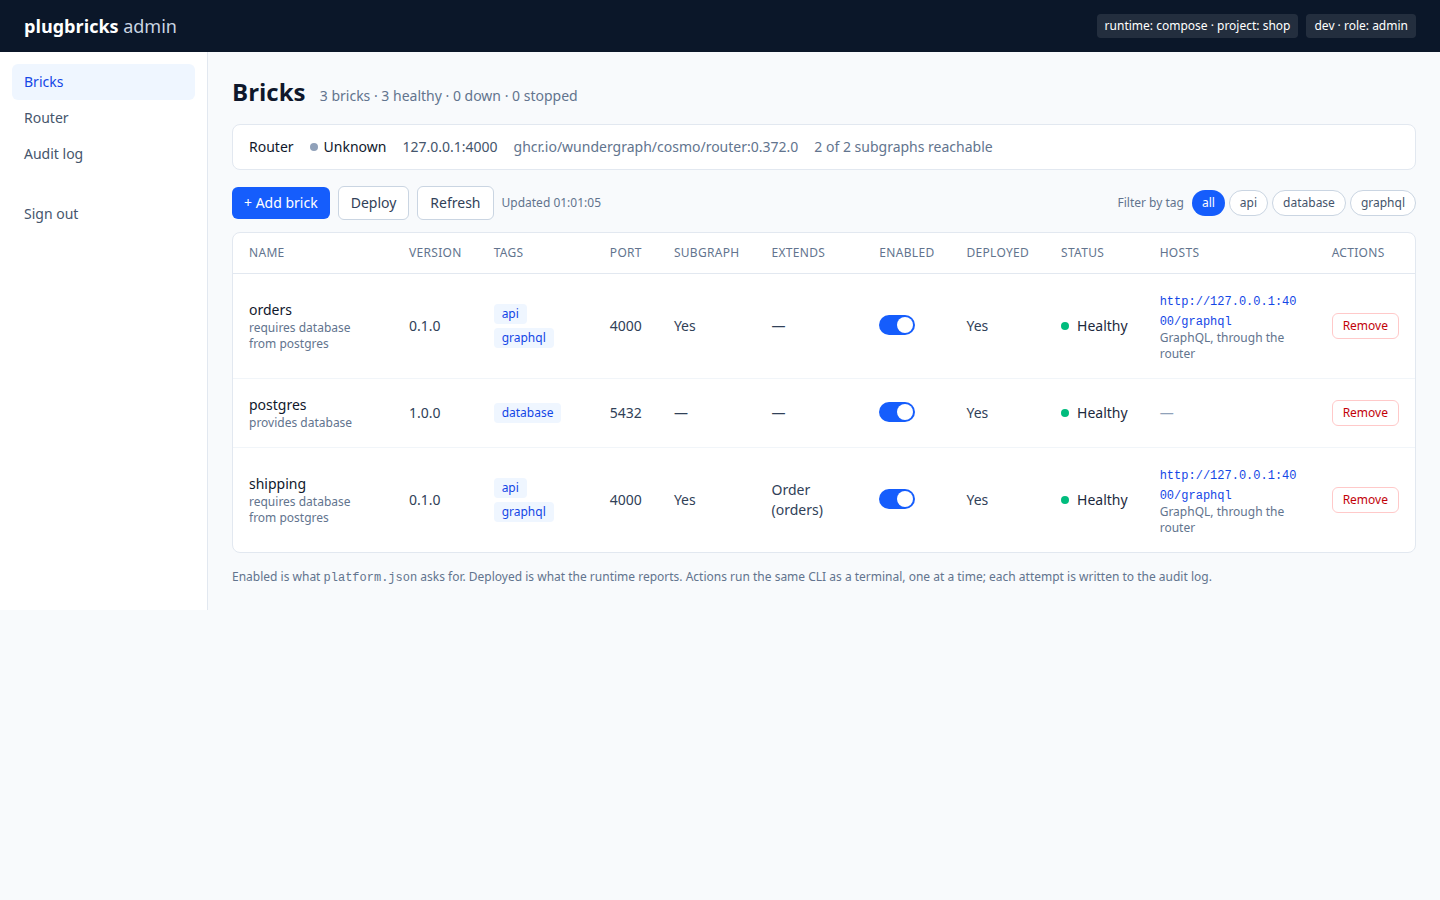
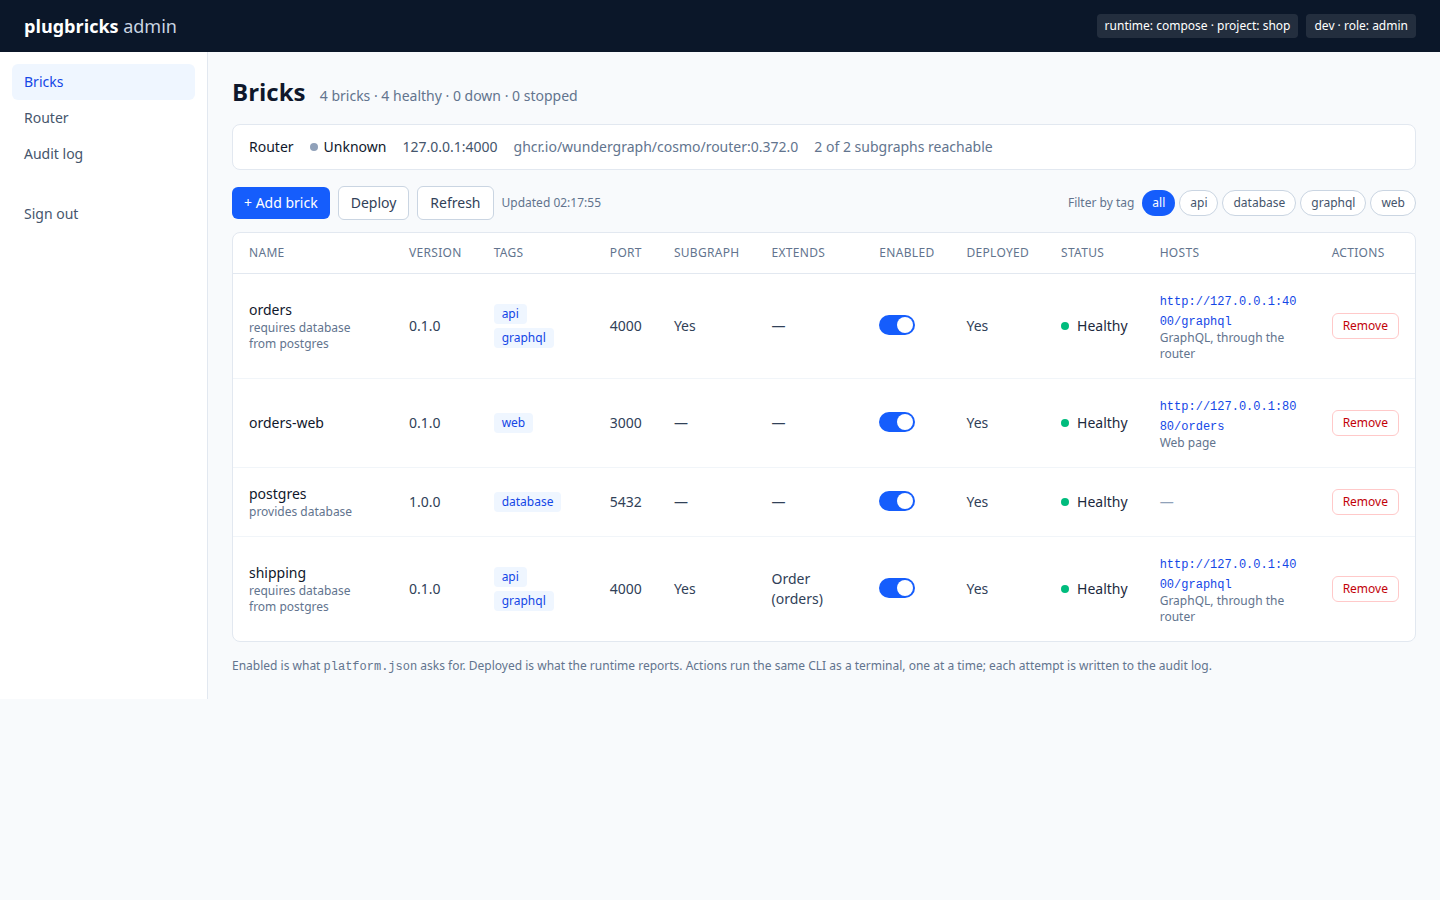
docs: web bricks in D17, the README and the architecture, with screenshots

diff --git a/README.md b/README.md
@@ -124,12 +124,12 @@ viewer sees the same pages and cannot change anything. The Router page shows the
 size, source, composition and composed schema. The published package carries the built UI
 (`prepack` copies it to `dist/admin/ui`), and the `dist` test checks it.
 
-The screenshots below were taken on a real platform (`postgres`, `orders`, `shipping` and the router on
-Docker Compose, admin in `--dev`). On Compose the router has no healthcheck (its image has no shell,
+The screenshots below were taken on a real platform (`postgres`, `orders`, `shipping`, `orders-web` and
+the router on Docker Compose, admin in `--dev`). On Compose the router has no healthcheck (its image has no shell,
 D9), so its state is shown as `Unknown` while it runs.
 
 **Bricks**: what `platform.json` asks for next to what the runtime reports; a subgraph brick is reached
-through the router.
+through the router, a web brick's page on its own loopback port.
 
 ![The Bricks page: three healthy bricks, their tags, ports, subgraphs and router endpoint](docs/screenshots/admin-bricks.png)
 
@@ -153,6 +153,29 @@ A brick can be **disabled without being removed**: `plugbricks disable <name>` w
 Commands that change the platform (`add`, `remove`, `enable`, `disable`, `generate`, `up`, `down`) run **one at a time**: each holds `.platform/lock` while it runs, and another one meanwhile is refused with `PLATFORM_BUSY`, whether it comes from a terminal or from the admin. A lock left by a process that died is taken over (D16).
 
 A brick may also declare `tags` (`api`, `graphql`, `database`, `queue`, …) in its `plugin.json`; they are kept in `platform.lock` and shown in the JSON reports, for filtering in the admin.
+
+### `web`: a brick that serves pages
+
+A brick may declare the service that serves its pages: `"web": { "service": "app", "path": "/orders" }`.
+`add` gives it a `webPort` in `platform.json`, the first port from 8080 that neither the router nor
+another web brick uses (change it there if you like; a port already taken is refused with
+`WEB_PORT_CONFLICT`). On Docker Compose the service is published on `127.0.0.1:<webPort>` only; on
+Kubernetes it stays a ClusterIP Service, reached with `kubectl port-forward` on the same local port. When
+the platform has a router, the service is given `GRAPHQL_URL` (the router inside the platform, for its
+server) and `PUBLIC_GRAPHQL_URL` (`http://127.0.0.1:<router.port>/graphql`, for code that runs in the
+browser), and the router accepts browser calls from `http://127.0.0.1:<webPort>` and
+`http://localhost:<webPort>` only: any other origin gets 403 and its request does not run (D17). With
+no web brick, the router accepts only its own origin.
+
+`examples/orders-web` (source `apis/orders-web`) is the shop's orders page: its server reads the orders
+and their shipment through the router, and when shipping does not answer it still lists the orders with
+the shipment marked unavailable.
+
+![The orders page of orders-web on 127.0.0.1:8080, refreshed by the browser through the router](docs/screenshots/web-orders-page.png)
+
+With the shipping container stopped, the same page:
+
+![The orders page with shipping stopped: the orders are listed, the shipment is unavailable](docs/screenshots/web-orders-shipping-down.png)
 
 ### `queue`: one message broker for every service that needs it
 
@@ -282,4 +305,6 @@ Dependencies are pinned to exact versions (`.npmrc` sets `save-exact`), and `pac
    - Done (5d): `enabled` in `platform.json` (`enable` / `disable`: installed but not deployed) and `tags` in `plugin.json` (D14).
    - Done (6b): one changing command at a time, `.platform/lock` and `PLATFORM_BUSY` (D16).
    - Done (6, 6c, 6d): `plugbricks admin` on `127.0.0.1:4100`, the Bricks, Router and Audit pages, OIDC sign-in with the roles `plugbricks-viewer` and `plugbricks-admin`, actions (`add`, `enable`, `disable`, `remove`, `up`) run through the CLI and written to `.admin/audit.log`, the UI shipped in the package (D15).
-   - Not built: web bricks (pages served by a brick, like the mockup's `orders-web`) and a Keycloak brick (an external issuer is the supported path, `docs/keycloak.md`).
+   - Done (7a): the router accepts browser calls only from the origins it lists; it used to accept every origin, and a cross-site mutation ran (D17).
+   - Done (7b): web bricks: `web` in the manifest, `webPort` in `platform.json`, published on 127.0.0.1 only, `GRAPHQL_URL` and `PUBLIC_GRAPHQL_URL`, the example `orders-web`, tested end to end on Docker Compose (D17). Not yet on k3d.
+   - Not built: a Keycloak brick (an external issuer is the supported path, `docs/keycloak.md`).

diff --git a/docs/decisions.md b/docs/decisions.md
@@ -977,7 +977,19 @@ status } }` answers `{"data":{"shipment":{"carrier":"ups","status":"SHIPPED"}}}`
   `text/plain` and a JSON mutation with `Origin: http://evil.example` get 403, a preflight from it gets
   403, and the number of orders does not change. A request with the router's own origin runs (200); a
   *preflight* with it gets 400, because the router treats it as a same-origin request, which never needs
-  one. Not run on k3d yet. Points 2 to 7 (the web bricks) are accepted, not built. Chosen by Dedy on
+  one. Not run on k3d yet. Step 7b (points 2 to 7, the web bricks) implemented on 2026-11-21: `web` in
+  the manifest, `webPort` in `platform.json` (written by `add`), the service published on
+  `127.0.0.1:<webPort>` by Compose, `GRAPHQL_URL` and `PUBLIC_GRAPHQL_URL` set on it, the router's origins
+  following the web bricks, `status` showing "pages on 127.0.0.1:<port>", the admin's Hosts column, and
+  `examples/orders-web` (source `apis/orders-web`). Tested by the CLI scenarios `web-brick-generate`
+  (golden files for both runtimes), `web-port-next-free`, `web-port-conflict` and
+  `add-web-env-reserved`, by the admin test, and end to end on Docker Compose (`e2e-compose`, "a web
+  brick in front of the router"): only the router and the page are published, both on 127.0.0.1; an
+  order created and shipped through the router shows on the page, rendered by its server through
+  `GRAPHQL_URL`; the page's two origins get 204 and their own origin back on a preflight, and a request
+  from the page's origin runs, while `http://evil.example` gets 403; with the shipping container stopped
+  the page still lists the order and marks its shipment "Unavailable". Not run: the k3d scenario (point 4
+  through port-forward) and a real browser clicking "Refresh". Chosen by Dedy on
   2026-11-21 between two options: a web
   gateway (one published reverse proxy in front of the pages and `/graphql`) and one published port per
   web brick. The second was chosen: simpler to start, no new component to pin and harden.
@@ -1005,7 +1017,8 @@ status } }` answers `{"data":{"shipment":{"carrier":"ups","status":"SHIPPED"}}}`
      has. This step comes first and stands alone: it fixes the hole above for every platform.
   2. **The manifest** gains an optional `web: { "service": "<name>", "path": "/" }`: the service that
      serves pages on its `port`, and the entry path shown by the admin (default `/`). A brick may have
-     both `subgraph` and `web`. `WEB_SERVICE_UNKNOWN` when the service does not exist.
+     both `subgraph` and `web`. `UNKNOWN_SERVICE` (the code `subgraph` and `provides` already use) when
+     the service does not exist.
   3. **The host port is the platform's choice, not the brick's:** `platform.json` gets
      `bricks.<name>.webPort` (1024 to 65535). `add` writes the first port from 8080 upwards that no other
      web brick and not `router.port` uses, so the same `add` twice still gives identical files; the user

diff --git a/docs/architecture.md b/docs/architecture.md
@@ -225,7 +225,7 @@ without listing it in `extends` is not detected.
 
 | Concern | Rule | Where |
 |---|---|---|
-| Exposure | only the router, loopback / ClusterIP | D9 |
+| Exposure | only the router and the web bricks' pages, loopback / ClusterIP | D9, D17 |
 | Browser origins | the router accepts only the origins it lists (`CORS_ALLOW_ORIGINS`); any other gets 403 and nothing runs | D17 |
 | Images | pinned to `MAJOR.MINOR` at least, or a digest; the router by digest | `src/image.ts`, `tools.json` |
 | Router | non-root (65532), read-only filesystem, no capability, playground off, telemetry off | D9 |
@@ -277,11 +277,9 @@ flowchart LR
 
 What the admin mockup still shows and the code does not have:
 
-1. **Web bricks** (the mockup's `orders-web`): a service that serves pages. Decided in D17, not built:
-   each web brick is published on its own loopback port (`webPort` in `platform.json`), and the router
-   accepts cross-origin calls only from those pages. The first step of D17 is built: the router used to
-   accept every origin, so any web page could run its mutations; it now refuses any origin it does not
-   list (403, nothing runs).
+1. **Web bricks on Kubernetes, end to end** (D17): web bricks are built and tested end to end on Docker
+   Compose (`examples/orders-web`, published on its own loopback port, `webPort`); the k3d scenario,
+   through `kubectl port-forward`, is not written yet.
 2. **A Keycloak brick.** The supported path is an external issuer (`docs/keycloak.md`). A brick would
    need a service published on the host (against D9) and a setup task at the provider level (create the
    realm, the client and the roles), which the manifest cannot express today.
